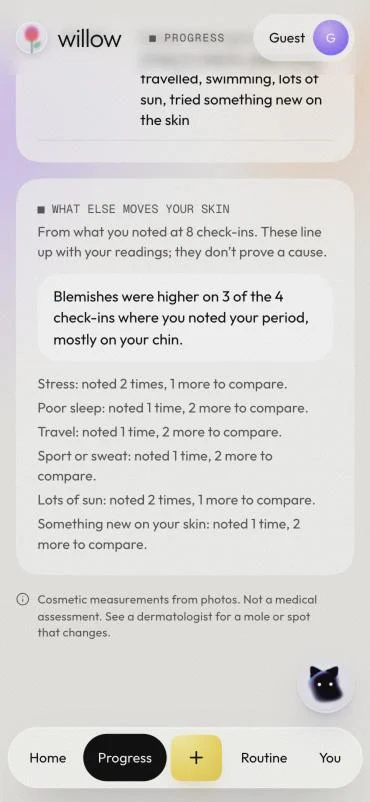
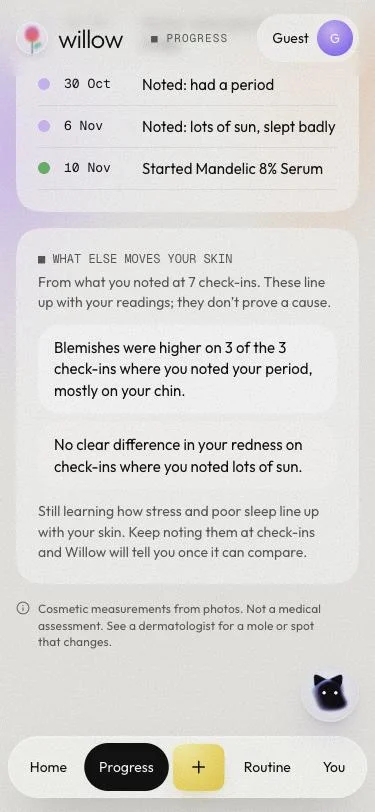
What else moves your skin: plain findings instead of counts
Without a pattern, a noted change is either "No clear difference in your redness on check-ins
where you noted lots of sun" (enough check-ins to compare) or listed in one line of what Willow
is still learning about. No more "noted 2 times, 1 more to compare".

diff --git a/web/src/features/progress/PatternsCard.tsx b/web/src/features/progress/PatternsCard.tsx
@@ -5,10 +5,13 @@ import { api, type ChangePatterns } from '../../lib/api'
 import { plural } from '../../lib/format'
 import { useAuth } from '../../lib/useAuth'
 
+const listOf = (w: string[]) => (w.length === 1 ? w[0] : `${w.slice(0, -1).join(', ')} and ${w[w.length - 1]}`)
+
 /**
  * "What else moves your skin" (api GET /v1/patterns): what the person noted at their check-ins (period, stress,
  * sleep, travel…) against their readings. Code finds a pattern only with 3+ check-ins on each side and a gap beyond
- * their normal range; until then it says how many more noted weeks it needs. Always "lines up with", never a cause.
+ * their normal range. Without one: "No clear difference in…" when there were enough check-ins to compare, else one
+ * plain line of what Willow is still learning about (no counts). Always "lines up with", never a cause.
  * Live accounts only; hidden when nothing has been noted yet or the call fails.
  */
 export function PatternsCard() {
@@ -28,32 +31,32 @@ export function PatternsCard() {
     }
   }, [mode, getIdToken])
 
-  if (mode !== 'live' || !got || (!got.patterns.length && !got.building.length)) return null
+  if (mode !== 'live' || !got || (!got.patterns.length && !got.same.length && !got.learning.length)) return null
+  const learning = got.learning.map((l) => l.about)
   return (
     <section aria-label="What else moves your skin" className="flex flex-col gap-3 rounded-[44px] bg-surface/70 p-[clamp(22px,3vw,32px)] squircle">
       <div className="flex flex-col gap-1">
         <span className="font-mono text-[12px] text-ink-2">■ WHAT ELSE MOVES YOUR SKIN</span>
-        <span className="text-[14px] leading-[1.45] text-ink-2">From what you noted at {plural(got.answered, 'check-in')}. These line up with your readings; they don’t prove a cause.</span>
+        <span className="text-[14px] leading-[1.45] text-ink-2">From what you noted at {plural(got.answered, 'check-in')}.{got.patterns.length ? ' These line up with your readings; they don’t prove a cause.' : ''}</span>
       </div>
-      {got.patterns.length ? (
+      {got.patterns.length || got.same.length ? (
         <ul className="m-0 flex list-none flex-col gap-2 p-0">
           {got.patterns.map((p) => (
             <li key={`${p.group}-${p.metric_id}`} className="rounded-[22px] bg-white/70 px-4 py-3 text-[15px] leading-[1.45]">
               {p.text}
             </li>
           ))}
-        </ul>
-      ) : (
-        <p className="m-0 text-[15px] leading-[1.45]">No clear pattern yet.</p>
-      )}
-      {got.building.length ? (
-        <ul className="m-0 flex list-none flex-col gap-1 p-0 text-[14px] leading-[1.45] text-ink-2">
-          {got.building.map((b) => (
-            <li key={b.group}>
-              {b.need ? `${b.about[0].toUpperCase()}${b.about.slice(1)}: noted ${plural(b.noted, 'time')}, ${b.need} more to compare.` : `${b.about[0].toUpperCase()}${b.about.slice(1)}: no clear difference so far.`}
+          {got.same.map((s) => (
+            <li key={s.group} className="rounded-[22px] bg-white/40 px-4 py-3 text-[15px] leading-[1.45]">
+              {s.text}
             </li>
           ))}
         </ul>
+      ) : null}
+      {learning.length ? (
+        <p className="m-0 text-[14px] leading-[1.45] text-ink-2">
+          Still learning how {listOf(learning)} {learning.length === 1 ? 'lines' : 'line'} up with your skin. Keep noting them at check-ins and Willow will tell you once it can compare.
+        </p>
       ) : null}
     </section>
   )

diff --git a/web/src/lib/api.ts b/web/src/lib/api.ts
@@ -135,7 +135,10 @@ export type ChangesRead = {
 export type ChangePatterns = {
   answered: number
   patterns: { group: string; about: string; metric_id: string; metric: string; higher: boolean; way: string | null; noted: number; same_way: number; others: number; areas: string[]; text: string }[]
-  building: { group: string; about: string; noted: number; need: number }[]
+  /** Enough check-ins on both sides and no clear difference (a finding, worded by the api). */
+  same: { group: string; about: string; text: string }[]
+  /** Noted, but not enough check-ins yet to compare: listed without numbers. */
+  learning: { group: string; about: string }[]
 }
 
 /** One ingredient as read off the label: `low` when part of it was hard to read. Plain strings: older api answers. */

diff --git a/api/app/changes.py b/api/app/changes.py
@@ -297,12 +297,17 @@ def patterns_in(sessions: list[tuple[str, dict[str, Any]]]) -> dict[str, Any]:
     check-ins where it was noted against the answered ones where it was not. A pattern needs
     MIN_EACH on each side, a gap of the means beyond the reading's normal range (its mdc95 on the
     latest check-in), and at least MIN_SHARE of the noted check-ins beyond the others' median the
-    same way. Counts only compare with check-ins taken the same way (with or without cheeks)."""
+    same way. Counts only compare with check-ins taken the same way (with or without cheeks).
+
+    Without a pattern, a noted kind of change is `same` when at least one reading had enough
+    check-ins on both sides and showed no clear difference (a real finding, said plainly), else
+    `learning` (not enough check-ins yet; the app lists these without numbers)."""
     rows = _comparable(sessions)
-    patterns, building = [], []
+    patterns, same, learning = [], [], []
     for group, metric_ids in WATCH.items():
         noted_n = sum(1 for _, d in rows if group in (groups_of(d) or set()))
         found_any = False
+        compared: list[str] = []  # readings with enough check-ins on both sides
         for metric_id in metric_ids:
             cheeks = None
             if metric_id in baselines.CONFIRMED_COUNTS and rows:
@@ -318,6 +323,7 @@ def patterns_in(sessions: list[tuple[str, dict[str, Any]]]) -> dict[str, Any]:
                 (tagged if group in (groups_of(d) or set()) else others).append(r)
             if len(tagged) < MIN_EACH or len(others) < MIN_EACH or not band:
                 continue
+            compared.append(_label(rows, metric_id))
             gap = mean(v for v, _, _ in tagged) - mean(v for v, _, _ in others)
             if abs(gap) <= band:
                 continue
@@ -347,13 +353,25 @@ def patterns_in(sessions: list[tuple[str, dict[str, Any]]]) -> dict[str, Any]:
                     ),
                 }
             )
-        if not found_any and noted_n:
-            need = max(0, MIN_EACH - noted_n)
-            building.append(
-                {"group": group, "about": GROUP_WORDS[group], "noted": noted_n, "need": need}
+        if found_any or not noted_n:
+            continue
+        if compared:
+            readings = _and([m.lower() for m in compared])
+            same.append(
+                {
+                    "group": group,
+                    "about": GROUP_WORDS[group],
+                    "text": f"No clear difference in your {readings} on check-ins where you "
+                    f"noted {GROUP_WORDS[group]}.",
+                }
             )
-    others_n = len(rows)
-    return {"answered": others_n, "patterns": patterns, "building": building}
+        else:
+            learning.append({"group": group, "about": GROUP_WORDS[group]})
+    return {"answered": len(rows), "patterns": patterns, "same": same, "learning": learning}
+
+
+def _and(words: list[str]) -> str:
+    return words[0] if len(words) == 1 else f"{', '.join(words[:-1])} and {words[-1]}"
 
 
 def sentence(label: str, about: str, higher: bool, same: int, of: int, areas: list[str]) -> str:

diff --git a/api/tests/test_changes.py b/api/tests/test_changes.py
@@ -208,9 +208,9 @@ def test_a_pattern_needs_three_weeks_each_side_beyond_the_normal_range():
         "Blemishes were higher on 3 of the 3 check-ins where you noted your period"
     )
     assert "caus" not in p["text"]
-    # stress and sun were noted once: still building, never a pattern
-    building = {b["group"]: b for b in got["building"]}
-    assert building["stress"]["need"] == 2 and building["sun"]["need"] == 2
+    # stress and sun were noted once: still learning (no numbers), never a pattern
+    assert {b["group"] for b in got["learning"]} == {"stress", "sun"}
+    assert got["same"] == []
 
 
 def test_no_pattern_inside_the_normal_range_or_without_enough_weeks():
@@ -226,7 +226,17 @@ def test_no_pattern_inside_the_normal_range_or_without_enough_weeks():
             (22, [], 3),
         ],
     )
-    assert changes.find(store, UID)["patterns"] == []
+    got = changes.find(store, UID)
+    assert got["patterns"] == []
+    # enough check-ins on both sides and no difference: said plainly, as a finding
+    assert got["same"] == [
+        {
+            "group": "sleep",
+            "about": "poor sleep",
+            "text": "No clear difference in your blemishes on check-ins where you noted "
+            "poor sleep.",
+        }
+    ]
     store2 = MemoryStore()
     _weeks(store2, [(40, ["period"], 3), (20, [], 3), (41, ["period"], 3), (21, [], 3)])
     assert changes.find(store2, UID)["patterns"] == []

diff --git a/docs/GEMINI_SPEC.md b/docs/GEMINI_SPEC.md
@@ -91,7 +91,7 @@ Gemini helps a brand act on a product's page; the facts are the page's own.
 ## 9. What changed since the last check-in (Nov 28, `api/app/changes.py`, `api/app/changes_ai.py`)
 At each face check-in the person says what was different since their last one (chips for period, stress, sleep, travel, sport, sun, diet, routine and health, plus "Anything else?" in their own words). Code decides everything measurable; Gemini only reads and words.
 - **Reading "Anything else?"** (`POST /v1/sessions/{id}/changes/read`, prompt `changes_read`): Gemini returns `ReadOut {tags[], products[], reaction}`. Tags only from the fixed list (the schema); a product is kept only when its words are in the text and it names a product, not a kind ("the new serum" is dropped); `reaction` is also set by a word check (burning, stinging, rash, itching, swelling, hives). Nothing is saved: the app shows the tags as chips the person confirms. Gemini down, past the cap (30 a day, refunded on failure) or a broken answer: a word list does the same. A reaction shows the stop-and-see-a-dermatologist note; a named product is suggested for the routine.
-- **Patterns** (`GET /v1/patterns`): code only. For each kind of change and the readings it is compared with (period: blemishes, redness, shine; sun: dark spots, redness, evenness; …), check-ins where it was noted against answered check-ins where it was not, same capture mode (and, for counts, taken the same way). A pattern needs 3+ on each side, a gap of the means beyond the reading's normal range (mdc95) and at least 2 of every 3 noted check-ins past the others' median the same way. With `extras.by_zone` (engine 0.4.1+), up to two areas where the gap is largest. The sentence is written by code: "Blemishes were higher on 4 of the 5 check-ins where you noted your period, mostly on your chin." Never a cause; skin tone is never compared.
+- **Patterns** (`GET /v1/patterns`): code only. Without a pattern, a noted kind of change is said plainly as "No clear difference in your … on check-ins where you noted …" once there were enough check-ins to compare; otherwise the app lists what it is still learning about, with no counts. For each kind of change and the readings it is compared with (period: blemishes, redness, shine; sun: dark spots, redness, evenness; …), check-ins where it was noted against answered check-ins where it was not, same capture mode (and, for counts, taken the same way). A pattern needs 3+ on each side, a gap of the means beyond the reading's normal range (mdc95) and at least 2 of every 3 noted check-ins past the others' median the same way. With `extras.by_zone` (engine 0.4.1+), up to two areas where the gap is largest. The sentence is written by code: "Blemishes were higher on 4 of the 5 check-ins where you noted your period, mostly on your chin." Never a cause; skin tone is never compared.
 - **Metric story** (section 7): the facts add `this_week` (the tags in words, never the free text, which could hold numbers) and `patterns`. Gemini may write one point of context ("This check-in came after a week you noted exam stress"), never as the reason, and never repeats or invents a pattern (the app shows patterns in their own row).
 - **Wisp**: each latest session carries `noted_since_last_check_in`, and CONTEXT `life_patterns`; the rules say context only, never a cause, patterns only as written.
 
